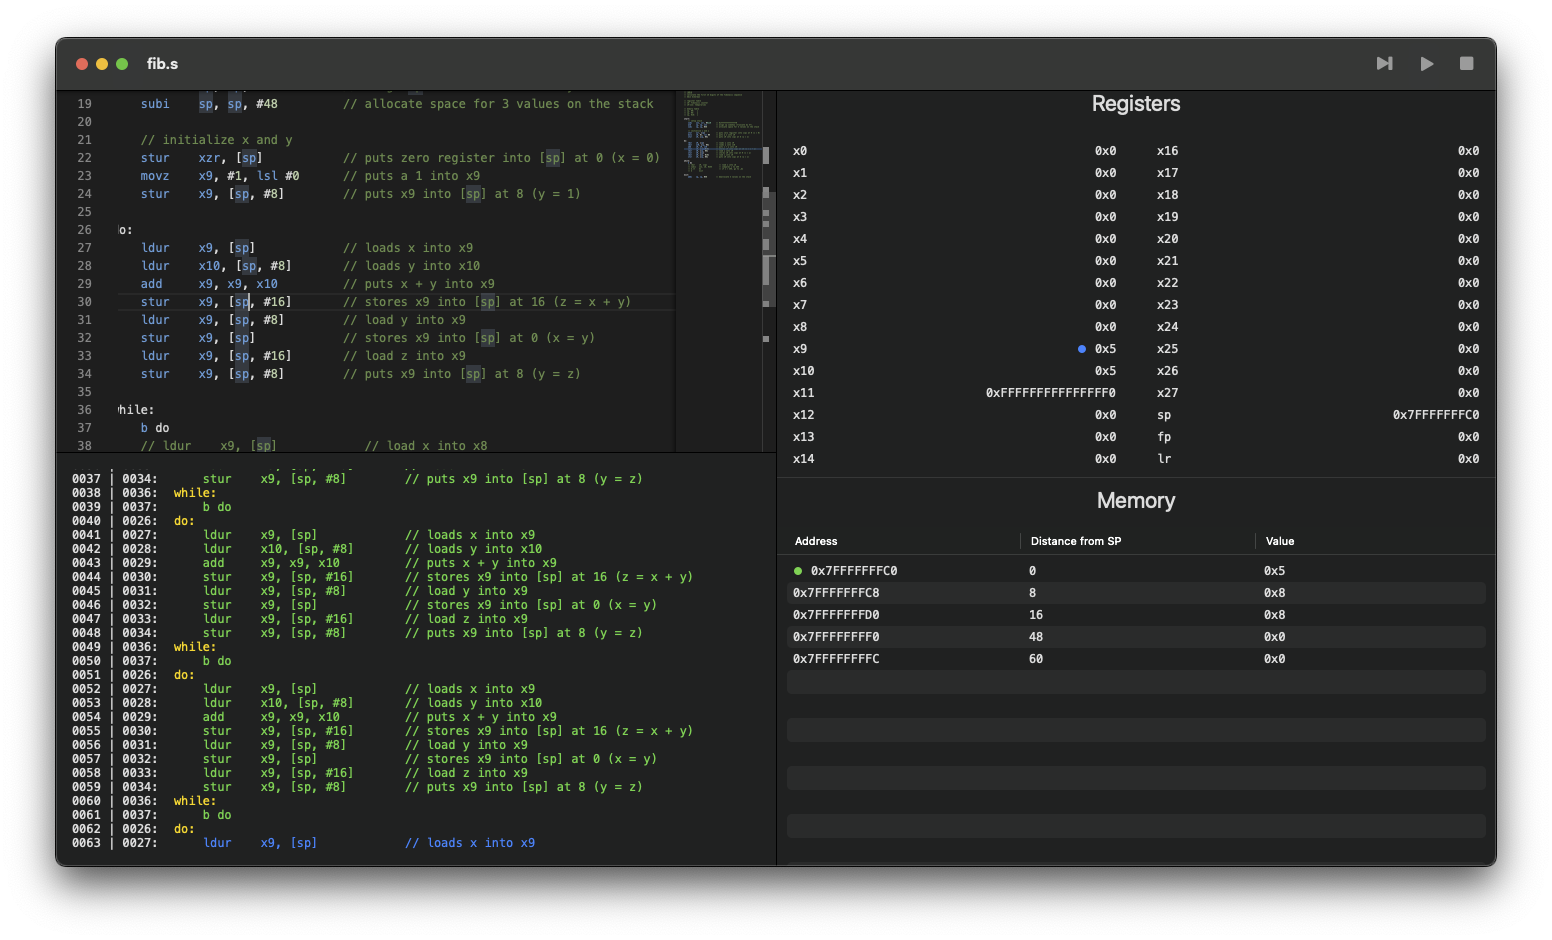
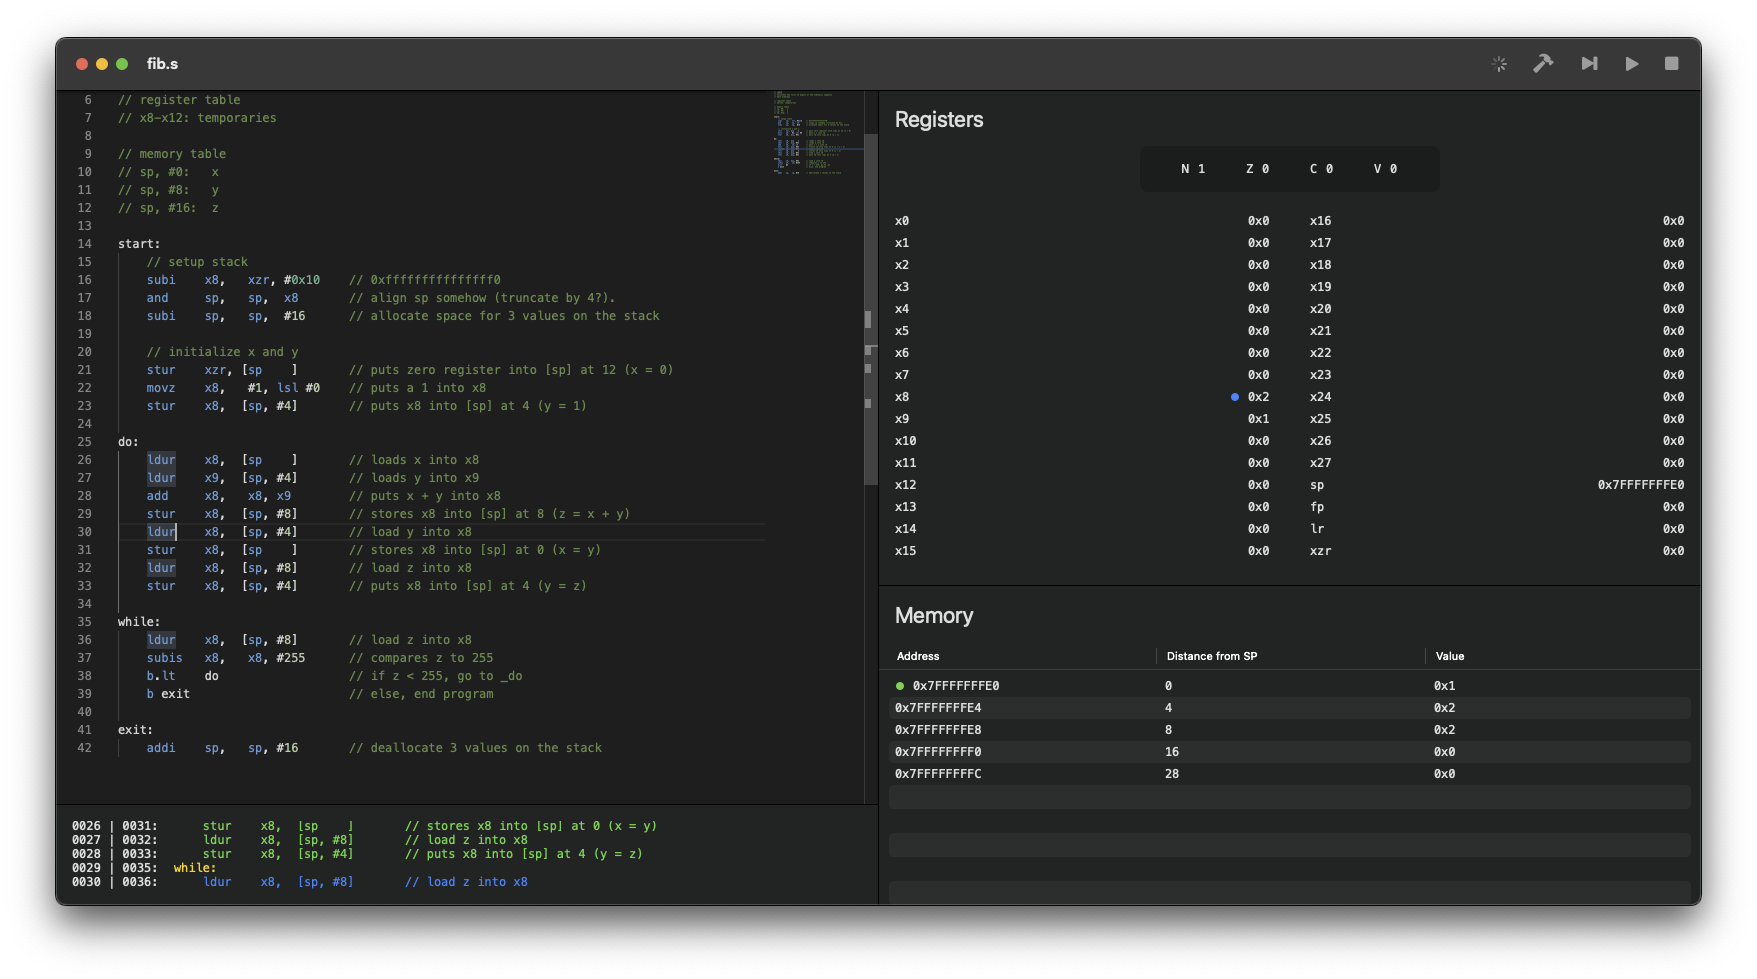
status indicator, update README

diff --git a/LEGv8-Simulator/Views/ContentView.swift b/LEGv8-Simulator/Views/ContentView.swift
@@ -46,6 +46,16 @@ struct ContentView: View {
         }
         .toolbar {
             ToolbarItemGroup {
+                if interpreter.running {
+                    ProgressView()
+                        .scaleEffect(0.5)
+                } else {
+                    Text(interpreter.assembled ? "Done" : interpreter.error ? "Failed with errors" : "Ready")
+                        .font(.caption2)
+                        .padding(6)
+                        .background(RoundedRectangle(cornerRadius: 6).fill(.quaternary))
+                }
+                
                 Button {
                     withAnimation {
                         interpreter.assemble(document.text)

diff --git a/README.md b/README.md
@@ -11,6 +11,7 @@ The top left panel is the Monaco Text Editor from VSCode, it supports all the st
 
 ## Execution
 There are three buttons in the top right:
+- Assemble - Assemble the code for execution (cmd + b)
 - Step - Execute the next instruction (cmd + k)
 - Run/Continue - Execute the rest of the instructions (cmd + l)
 - Stop - Reset everything, go back to beginning of program (cmd + j)
